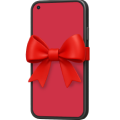
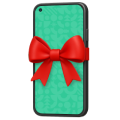
Pigu catch images

diff --git a/src/widgets/catchWidget/catchWidget.js b/src/widgets/catchWidget/catchWidget.js
@@ -223,6 +223,17 @@ import {
   item9Pigu,
   item10Pigu,
   item11Pigu,
+  item1PiguLV_EE_FI,
+  item2PiguLV_EE_FI,
+  item3PiguLV_EE_FI,
+  item4PiguLV_EE_FI,
+  item5PiguLV_EE_FI,
+  item6PiguLV_EE_FI,
+  item7PiguLV_EE_FI,
+  item8PiguLV_EE_FI,
+  item9PiguLV_EE_FI,
+  item10PiguLV_EE_FI,
+  item11PiguLV_EE_FI,
 } from './constants';
 import './styles.css';
 import { InputRegisterContainer } from '../helpers/InputRegisterContainer';
@@ -301,15 +312,7 @@ const getPlayer = (customer, language, campaignUrlOrCurrentPage) => {
     if (campaignUrlOrCurrentPage.includes('pigu')) {
       return playerPiguLT;
     }
-    if (campaignUrlOrCurrentPage.includes('220')) {
-      return playerPiguLV_EE_FI;
-    }
-    if (campaignUrlOrCurrentPage.includes('kaup24')) {
-      return playerPiguLV_EE_FI;
-    }
-    if (campaignUrlOrCurrentPage.includes('hobbyhall')) {
-      return playerPiguLV_EE_FI;
-    }
+    return playerPiguLV_EE_FI;
   }
   return player; // Default
 };
@@ -1456,18 +1459,18 @@ class CatchGame {
       this.customer === 'Pigu.lt'
     ) {
       for (let i = 0; i < this.numberOfFruits - 2; i++) {
-        const fruit = new Fruit(this.customer, this.language, this.canvas, this.context, this.player, this);
+        const fruit = new Fruit(this.customer, this.language, this.campaignUrlOrCurrentPage, this.canvas, this.context, this.player, this);
         fruit.chooseFruit();
         this.fruits.push(fruit);
       }
       for (let i = 0; i < 1; i++) {
-        const fruit = new Fruit(this.customer, this.language, this.canvas, this.context, this.player, this, 'bad');
+        const fruit = new Fruit(this.customer, this.language, this.campaignUrlOrCurrentPage, this.canvas, this.context, this.player, this, 'bad');
         fruit.chooseFruit();
         this.fruits.push(fruit);
       }
     } else {
       for (let i = 0; i < this.numberOfFruits; i++) {
-        const fruit = new Fruit(this.customer, this.language, this.canvas, this.context, this.player, this);
+        const fruit = new Fruit(this.customer, this.language, this.campaignUrlOrCurrentPage, this.canvas, this.context, this.player, this);
         fruit.chooseFruit();
         this.fruits.push(fruit);
       }
@@ -1572,7 +1575,7 @@ class CatchGame {
         if (this.fruits.length < newNumberOfFruits) {
           // Create additional fruits to reach the new number
           for (let i = this.fruits.length; i < newNumberOfFruits; i++) {
-            const fruit = new Fruit(this.customer, this.language, this.canvas, this.context, this.player, this);
+            const fruit = new Fruit(this.customer, this.language, this.campaignUrlOrCurrentPage, this.canvas, this.context, this.player, this);
             fruit.chooseFruit();
             this.fruits.push(fruit);
           }
@@ -1581,7 +1584,7 @@ class CatchGame {
         if (this.fruits.length < newNumberOfFruits + 3) {
           // Create additional fruits to reach the new number
           for (let i = this.fruits.length; i < newNumberOfFruits + 3; i++) {
-            const fruit = new Fruit(this.customer, this.language, this.canvas, this.context, this.player, this, 'bad');
+            const fruit = new Fruit(this.customer, this.language, this.campaignUrlOrCurrentPage, this.canvas, this.context, this.player, this, 'bad');
             fruit.chooseFruit();
             this.fruits.push(fruit);
           }
@@ -1591,7 +1594,7 @@ class CatchGame {
         if (this.fruits.length < newNumberOfFruits) {
           // Create additional fruits to reach the new number
           for (let i = this.fruits.length; i < newNumberOfFruits; i++) {
-            const fruit = new Fruit(this.customer, this.language, this.canvas, this.context, this.player, this);
+            const fruit = new Fruit(this.customer, this.language, this.campaignUrlOrCurrentPage, this.canvas, this.context, this.player, this);
             fruit.chooseFruit();
             this.fruits.push(fruit);
           }
@@ -1808,7 +1811,7 @@ class Player {
 }
 
 class Fruit {
-  constructor(customer, language, canvas, context, player, game, type) {
+  constructor(customer, language, campaignUrlOrCurrentPage, canvas, context, player, game, type) {
     this.canvas = canvas;
     this.context = context;
     this.player = player;
@@ -1816,6 +1819,7 @@ class Fruit {
     this.type = type;
     this.customer = customer;
     this.language = language;
+    this.campaignUrlOrCurrentPage = campaignUrlOrCurrentPage;
     if (this.customer.includes('Gamtos Ateitis')) {
       if (type === 'bad') {
         this.fruitNumber = Math.floor(Math.random() * 13);
@@ -1853,11 +1857,11 @@ class Fruit {
         this.fruitNumber = Math.floor(Math.random() * 12);
       }
     } else if (this.customer === 'Pigu.lt') {
-      const goodItemsCount = 7;
+      const goodItemsCount = 6;
       if (type === 'bad') {
-        this.fruitNumber = goodItemsCount + Math.floor(Math.random() * 4); // 7..10 (4 bad images)
+        this.fruitNumber = goodItemsCount + Math.floor(Math.random() * 5); // 6..10 (5 bad images)
       } else {
-        this.fruitNumber = Math.floor(Math.random() * goodItemsCount); // 0..6 (7 good images)
+        this.fruitNumber = Math.floor(Math.random() * goodItemsCount); // 0..5 (6 good images)
       }
     } else {
       this.fruitNumber = Math.floor(Math.random() * 10);
@@ -2006,7 +2010,23 @@ class Fruit {
         item14Apranga,
       ];
     } else if (this.customer === 'Pigu.lt') {
-      this.images = [item1Pigu, item2Pigu, item3Pigu, item4Pigu, item5Pigu, item6Pigu, item7Pigu, item8Pigu, item9Pigu, item10Pigu, item11Pigu];
+      if (this.campaignUrlOrCurrentPage.includes('pigu')) {
+        this.images = [item1Pigu, item2Pigu, item3Pigu, item4Pigu, item5Pigu, item6Pigu, item7Pigu, item8Pigu, item9Pigu, item10Pigu, item11Pigu];
+      } else {
+        this.images = [
+          item1PiguLV_EE_FI,
+          item2PiguLV_EE_FI,
+          item3PiguLV_EE_FI,
+          item4PiguLV_EE_FI,
+          item5PiguLV_EE_FI,
+          item6PiguLV_EE_FI,
+          item7PiguLV_EE_FI,
+          item8PiguLV_EE_FI,
+          item9PiguLV_EE_FI,
+          item10PiguLV_EE_FI,
+          item11PiguLV_EE_FI,
+        ];
+      }
     } else if (this.customer === 'Pegasas') {
       // Default catch images if none of the above conditions are met
       this.images = [item1Pegasas, item2Pegasas, item3Pegasas, item4Pegasas, item5Pegasas, item6Pegasas, item7Pegasas, item8Pegasas, item9Pegasas, item10Pegasas];
@@ -2029,7 +2049,7 @@ class Fruit {
     } else if (this.customer === 'Apranga') {
       this.fruitScore = [100, 100, 100, 100, 100, 100, 100, 100, 100, 100, 100, 100, -50, -50][this.fruitNumber];
     } else if (this.customer === 'Pigu.lt') {
-      this.fruitScore = [100, 100, 100, 100, 100, 100, 100, -50, -50, -50, -50][this.fruitNumber];
+      this.fruitScore = [100, 100, 100, 100, 100, 100, -50, -50, -50, -50, -50][this.fruitNumber];
     } else if (this.customer === 'Pegasas') {
       this.fruitScore = [100, 100, 100, 100, 100, 100, 100, 100, 100, 100][this.fruitNumber];
     }

diff --git a/src/widgets/catchWidget/constants.js b/src/widgets/catchWidget/constants.js
@@ -346,12 +346,12 @@ export const item14Apranga = 'https://raw.githubusercontent.com/boomio-api-v2/fi
 
 export const backgroundPiguLT = 'https://raw.githubusercontent.com/boomio-api-v2/final-combined-wdigets-1/main/images/catchWidget/Pigu/backgroundLT.png';
 export const backgroundPiguLV_EE = 'https://raw.githubusercontent.com/boomio-api-v2/final-combined-wdigets-1/main/images/catchWidget/Pigu/backgroundLV_EE.png';
-export const backgroundPiguFI = 'https://raw.githubusercontent.com/boomio-api-v2/final-combined-wdigets-1/main/images/catchWidget/Pigu/backgroundbackgroundFI.png';
+export const backgroundPiguFI = 'https://raw.githubusercontent.com/boomio-api-v2/final-combined-wdigets-1/main/images/catchWidget/Pigu/backgroundFI.png';
 export const playerPiguLT = 'https://raw.githubusercontent.com/boomio-api-v2/final-combined-wdigets-1/main/images/catchWidget/Pigu/player.png';
 export const playerPiguLV_EE_FI = 'https://raw.githubusercontent.com/boomio-api-v2/final-combined-wdigets-1/main/images/catchWidget/Pigu/LV_EE_FI/player.png';
+export const item1Pigu = 'https://raw.githubusercontent.com/boomio-api-v2/final-combined-wdigets-1/main/images/catchWidget/Pigu/item01.png';
 export const item2Pigu = 'https://raw.githubusercontent.com/boomio-api-v2/final-combined-wdigets-1/main/images/catchWidget/Pigu/item02.png';
 export const item3Pigu = 'https://raw.githubusercontent.com/boomio-api-v2/final-combined-wdigets-1/main/images/catchWidget/Pigu/item03.png';
-export const item1Pigu = 'https://raw.githubusercontent.com/boomio-api-v2/final-combined-wdigets-1/main/images/catchWidget/Pigu/item01.png';
 export const item4Pigu = 'https://raw.githubusercontent.com/boomio-api-v2/final-combined-wdigets-1/main/images/catchWidget/Pigu/item04.png';
 export const item5Pigu = 'https://raw.githubusercontent.com/boomio-api-v2/final-combined-wdigets-1/main/images/catchWidget/Pigu/item05.png';
 export const item6Pigu = 'https://raw.githubusercontent.com/boomio-api-v2/final-combined-wdigets-1/main/images/catchWidget/Pigu/item06.png';
@@ -360,3 +360,14 @@ export const item8Pigu = 'https://raw.githubusercontent.com/boomio-api-v2/final-
 export const item9Pigu = 'https://raw.githubusercontent.com/boomio-api-v2/final-combined-wdigets-1/main/images/catchWidget/Pigu/item09.png';
 export const item10Pigu = 'https://raw.githubusercontent.com/boomio-api-v2/final-combined-wdigets-1/main/images/catchWidget/Pigu/item10.png';
 export const item11Pigu = 'https://raw.githubusercontent.com/boomio-api-v2/final-combined-wdigets-1/main/images/catchWidget/Pigu/item11.png';
+export const item1PiguLV_EE_FI = 'https://raw.githubusercontent.com/boomio-api-v2/final-combined-wdigets-1/main/images/catchWidget/Pigu/LV_EE_FI/item01.png';
+export const item2PiguLV_EE_FI = 'https://raw.githubusercontent.com/boomio-api-v2/final-combined-wdigets-1/main/images/catchWidget/Pigu/LV_EE_FI/item02.png';
+export const item3PiguLV_EE_FI = 'https://raw.githubusercontent.com/boomio-api-v2/final-combined-wdigets-1/main/images/catchWidget/Pigu/LV_EE_FI/item03.png';
+export const item4PiguLV_EE_FI = 'https://raw.githubusercontent.com/boomio-api-v2/final-combined-wdigets-1/main/images/catchWidget/Pigu/LV_EE_FI/item04.png';
+export const item5PiguLV_EE_FI = 'https://raw.githubusercontent.com/boomio-api-v2/final-combined-wdigets-1/main/images/catchWidget/Pigu/LV_EE_FI/item05.png';
+export const item6PiguLV_EE_FI = 'https://raw.githubusercontent.com/boomio-api-v2/final-combined-wdigets-1/main/images/catchWidget/Pigu/LV_EE_FI/item06.png';
+export const item7PiguLV_EE_FI = 'https://raw.githubusercontent.com/boomio-api-v2/final-combined-wdigets-1/main/images/catchWidget/Pigu/LV_EE_FI/item07.png';
+export const item8PiguLV_EE_FI = 'https://raw.githubusercontent.com/boomio-api-v2/final-combined-wdigets-1/main/images/catchWidget/Pigu/LV_EE_FI/item08.png';
+export const item9PiguLV_EE_FI = 'https://raw.githubusercontent.com/boomio-api-v2/final-combined-wdigets-1/main/images/catchWidget/Pigu/LV_EE_FI/item09.png';
+export const item10PiguLV_EE_FI = 'https://raw.githubusercontent.com/boomio-api-v2/final-combined-wdigets-1/main/images/catchWidget/Pigu/LV_EE_FI/item10.png';
+export const item11PiguLV_EE_FI = 'https://raw.githubusercontent.com/boomio-api-v2/final-combined-wdigets-1/main/images/catchWidget/Pigu/LV_EE_FI/item11.png';
